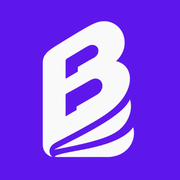
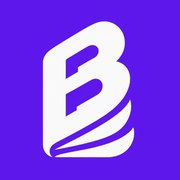
chore: update branding assets and copy
Replace application icon with new branding and update PDF reader UI strings for improved terminology.

diff --git a/app/layout.tsx b/app/layout.tsx
@@ -54,19 +54,20 @@ export const metadata: Metadata = {
   },
   icons: {
     icon: [
-      { url: '/logo.png', sizes: '512x512', type: 'image/png' },
+      { url: '/booksCircle (2).png', sizes: '512x512', type: 'image/png' },
       { url: '/icon-192.png', sizes: '192x192', type: 'image/png' },
       { url: '/icon-512.png', sizes: '512x512', type: 'image/png' },
       { url: '/favicon-32x32.png', sizes: '32x32', type: 'image/png' },
       { url: '/favicon-16x16.png', sizes: '16x16', type: 'image/png' },
     ],
     apple: [
+      { url: '/booksCircle (2).png', sizes: '180x180', type: 'image/png' },
       { url: '/apple-touch-icon.png', sizes: '180x180', type: 'image/png' },
     ],
     other: [
       {
         rel: 'mask-icon',
-        url: '/logo.png',
+        url: '/booksCircle (2).png',
         color: '#5814EA',
       },
     ],

diff --git a/components/InstallAppBanner.tsx b/components/InstallAppBanner.tsx
@@ -69,7 +69,7 @@ export const InstallAppBanner: React.FC<InstallAppBannerProps> = ({
             {/* App Icon */}
             <div className="relative w-11 h-11 sm:w-13 sm:h-13 rounded-xl sm:rounded-2xl overflow-hidden bg-transparent shadow-xs shrink-0 flex items-center justify-center">
               <Image
-                src="/logo.png"
+                src="/booksCircle (2).png"
                 alt="BooksCircle App Icon"
                 width={48}
                 height={48}

diff --git a/components/InstallSuccessModal.tsx b/components/InstallSuccessModal.tsx
@@ -48,7 +48,7 @@ export const InstallSuccessModal: React.FC<InstallSuccessModalProps> = ({
           <div className="relative mt-1">
             <div className="w-16 h-16 rounded-2xl overflow-hidden bg-transparent shadow-md flex items-center justify-center">
               <Image
-                src="/logo.png"
+                src="/booksCircle (2).png"
                 alt="BooksCircle"
                 width={64}
                 height={64}

diff --git a/components/PDFReaderModal.tsx b/components/PDFReaderModal.tsx
@@ -976,7 +976,7 @@ export const PDFReaderModal: React.FC<PDFReaderModalProps> = ({
                     : 'Loading Sample Preview...'}
                 </p>
                 <p className="text-[11px] text-slate-500 max-w-xs text-center">
-                  Crystal-clear vector rendering via PDFium WASM Engine.
+                  Crystal-clear high-speed rendering via PDFium WASM Engine.
                 </p>
               </div>
             )}

diff --git a/components/IOSInstallGuideModal.tsx b/components/IOSInstallGuideModal.tsx
@@ -41,7 +41,7 @@ export const IOSInstallGuideModal: React.FC<IOSInstallGuideModalProps> = ({
             <div className="flex items-center gap-3">
               <div className="relative w-11 h-11 rounded-xl overflow-hidden shadow-xs shrink-0">
                 <Image
-                  src="/logo.png"
+                  src="/booksCircle (2).png"
                   alt="BooksCircle Logo"
                   fill
                   unoptimized

diff --git a/components/PDFReader.tsx b/components/PDFReader.tsx
@@ -563,7 +563,7 @@ export default function PDFReader() {
                   Initializing PDFium WASM Engine...
                 </p>
                 <p className="text-[11px] max-w-[260px] text-center text-slate-500">
-                  Loading high-precision WebAssembly vector engine.
+                  Loading high-precision WebAssembly rendering engine.
                 </p>
               </div>
             )}

diff --git a/components/Header.tsx b/components/Header.tsx
@@ -85,7 +85,7 @@ export const Header: React.FC<HeaderProps> = ({
         >
           <div className="relative w-8 h-8 sm:w-9 sm:h-9 shrink-0 transition-transform group-hover:scale-105">
             <Image
-              src="/logo.png"
+              src="/booksCircle (2).png"
               alt="BooksCircle Logo"
               fill
               priority

diff --git a/components/BookDetailPage.tsx b/components/BookDetailPage.tsx
@@ -806,7 +806,7 @@ export const BookDetailPage: React.FC<BookDetailPageProps> = ({
         )}
       </main>
 
-      {/* Real-time PDFium WASM Vector PDF Reader for Sample & Purchased Reading */}
+      {/* Real-time PDFium WASM PDF Reader for Sample & Purchased Reading */}
       {activePdfReaderMode && (
         <PDFReaderModal
           book={book}

diff --git a/public/sw.js b/public/sw.js
@@ -1,7 +1,8 @@
 // BooksCircle Service Worker (Static Media Assets Only)
-const CACHE_NAME = 'bookscircle-v7';
+const CACHE_NAME = 'bookscircle-v9';
 const STATIC_ASSETS = [
   '/manifest.json',
+  '/booksCircle (2).png',
   '/logo.png',
   '/icon-192.png',
   '/icon-512.png',
